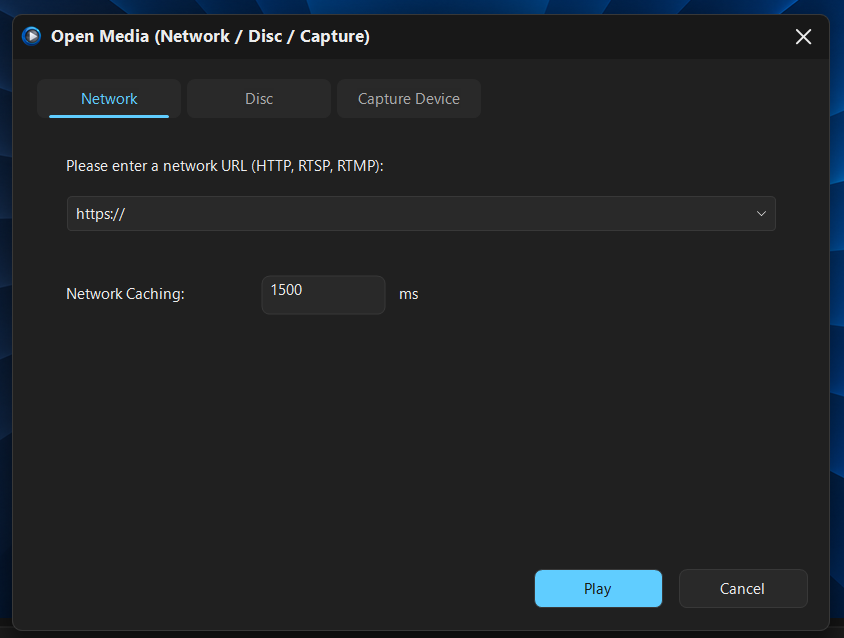
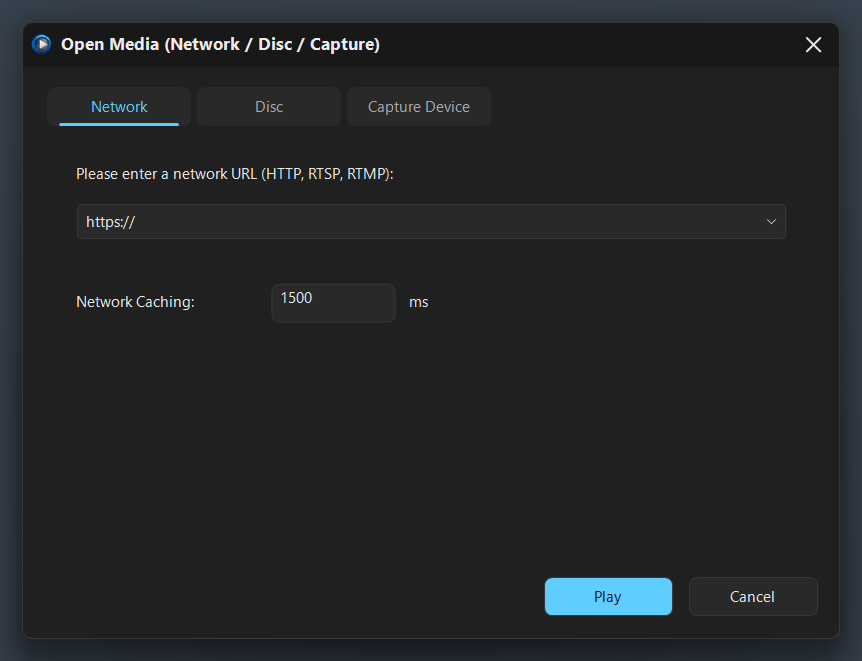
Refresh screenshots with a 3D cartoon demo and visible window corners

diff --git a/docs/SCREENSHOTS.md b/docs/SCREENSHOTS.md
@@ -2,6 +2,8 @@
 
 [← Project home](../README.md) · [العربية](../README_AR.md#صور-البرنامج)
 
+The playback screenshots show *Cartoon Sky*, a demo clip made from original AI-generated 3D-style artwork with an animated camera move.
+
 ## Player interface
 
 ![Main VLC Modern window](screenshots/player.png)
